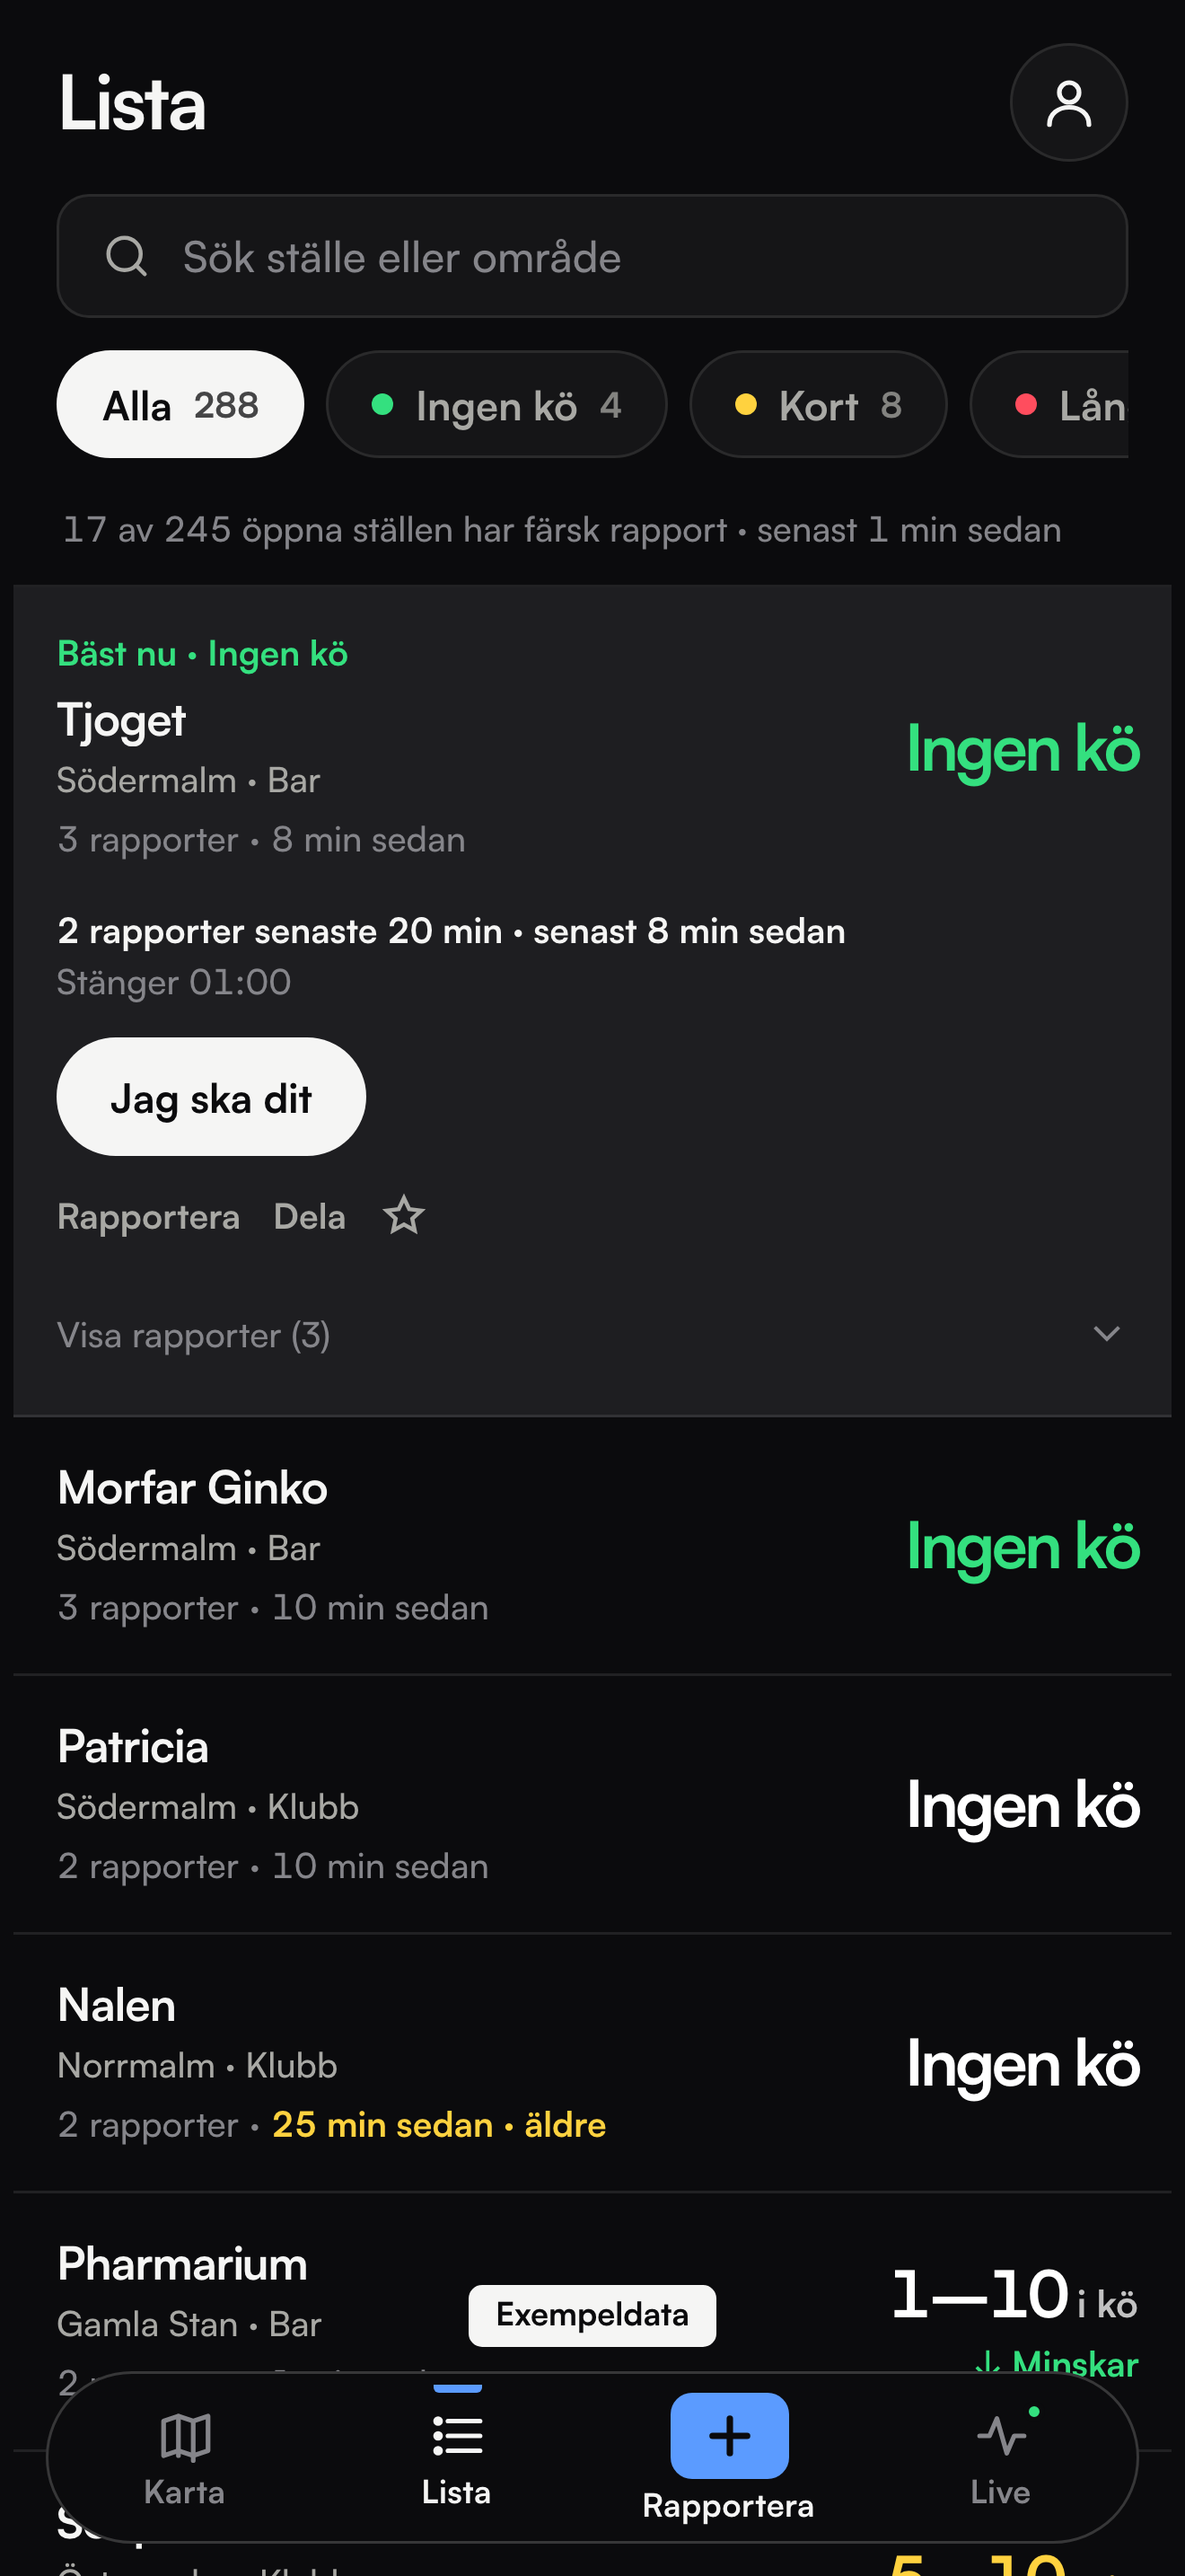
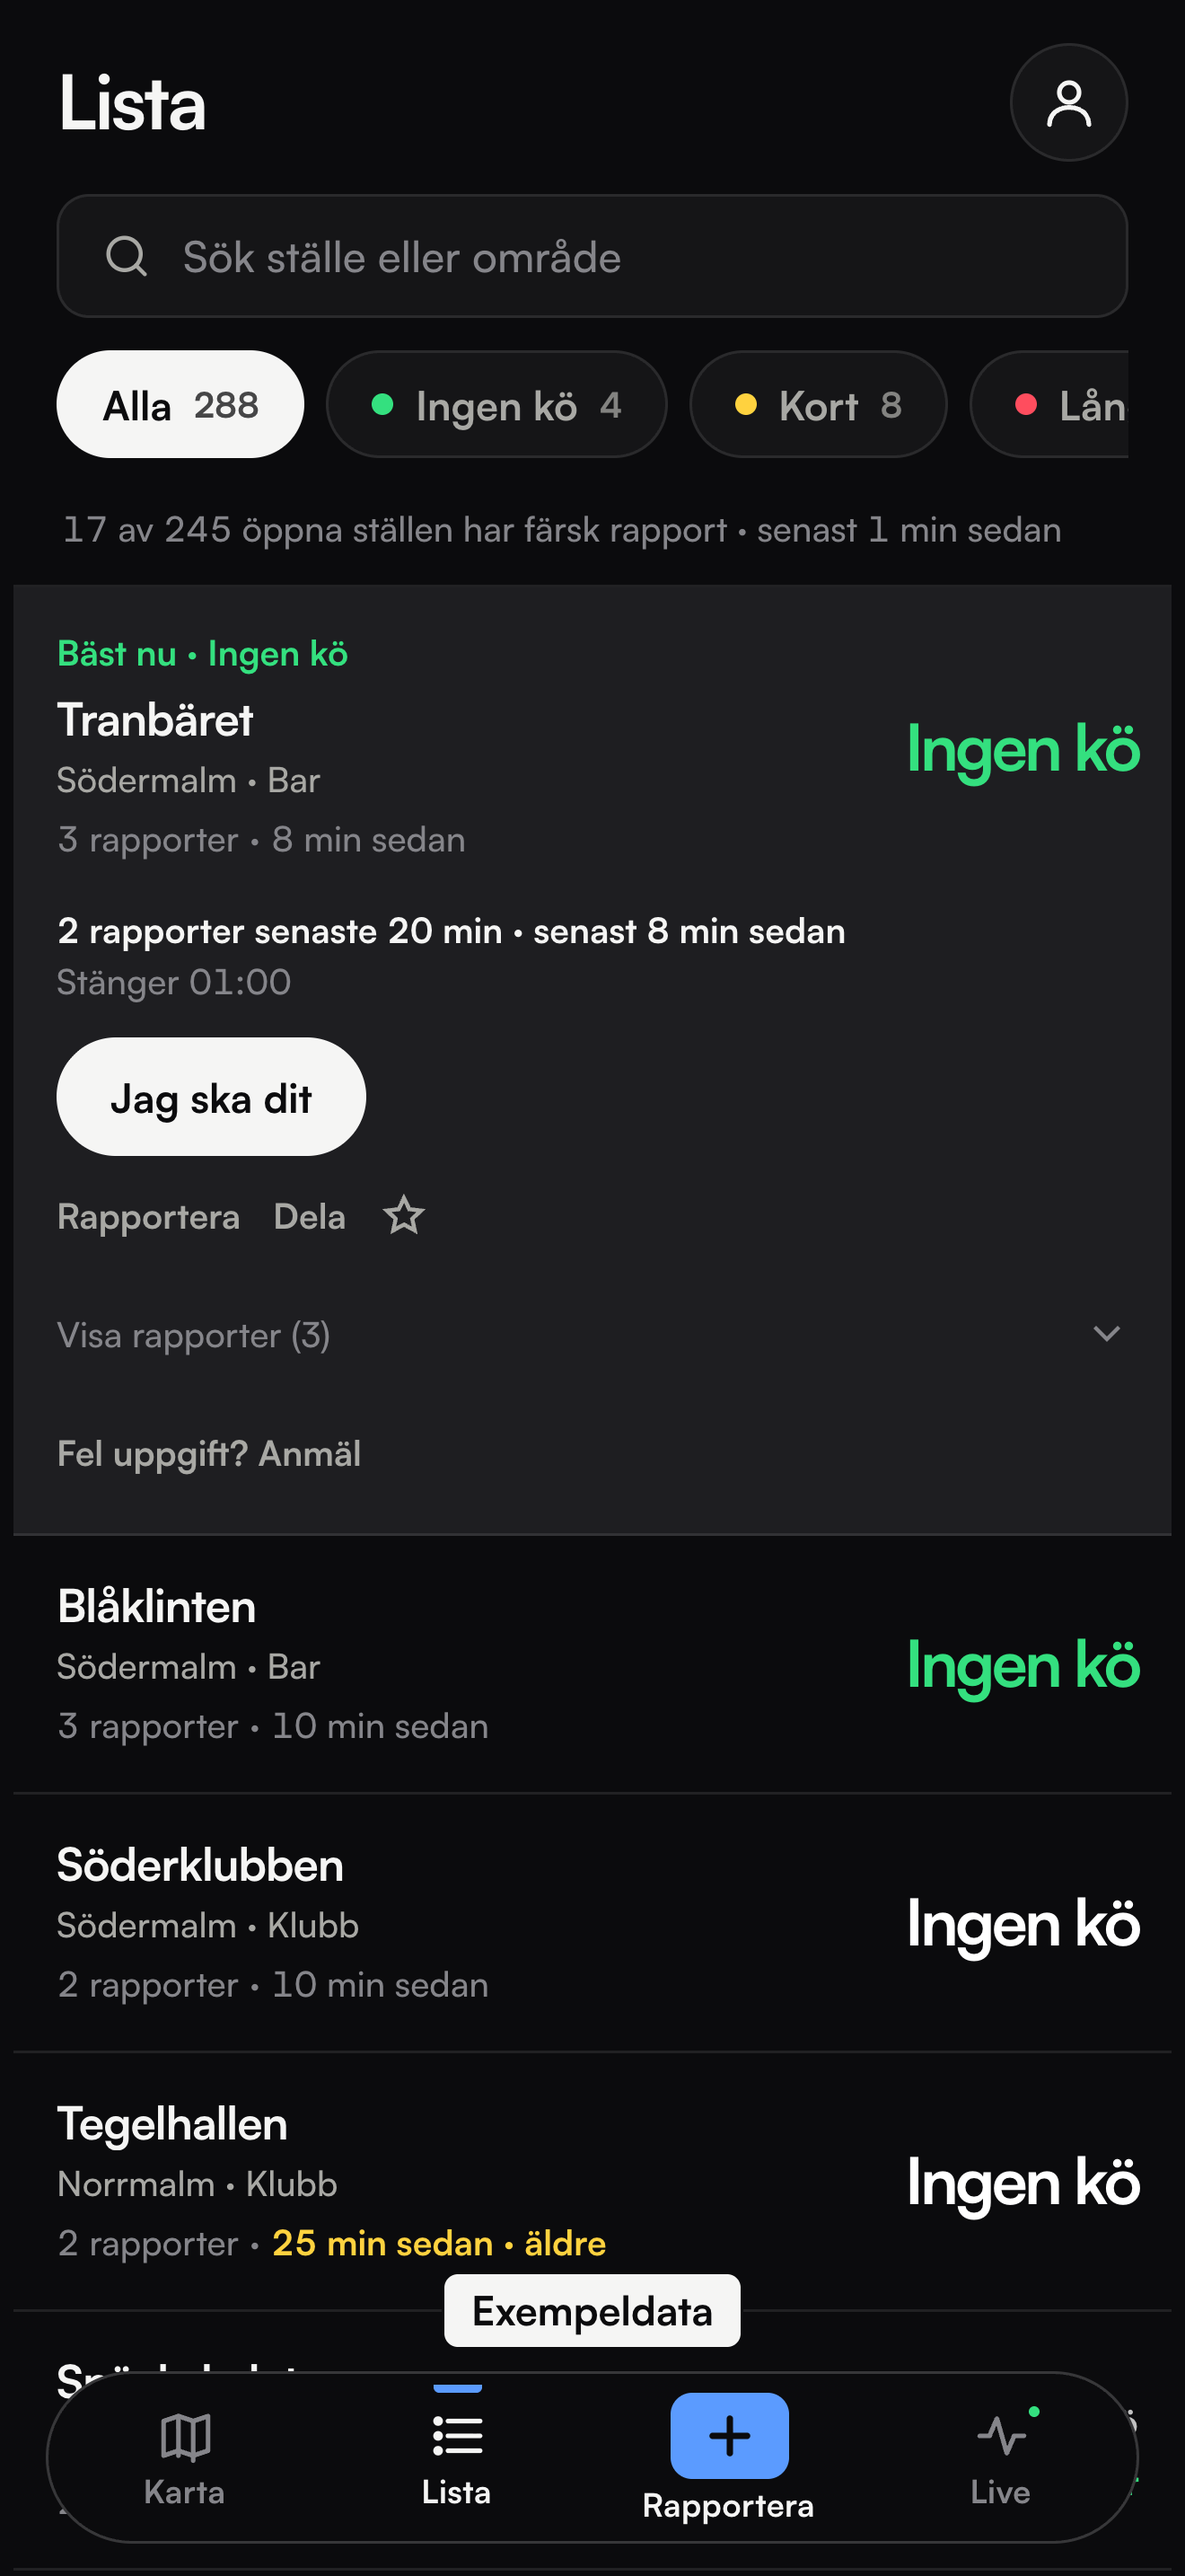
Inför App Store: skärmbilder med påhittade ställen, supportsida, typsnittet från egen domän, överföringar till USA i integritetspolicyn, synlig kartkreditering; arkivet körs

diff --git a/public/support.html b/public/support.html
@@ -1,0 +1,52 @@
+<!doctype html>
+<html lang="sv">
+<head>
+<meta charset="utf-8">
+<meta name="viewport" content="width=device-width, initial-scale=1, viewport-fit=cover">
+<meta name="theme-color" content="#0B0B0D">
+<title>Hjälp · Qbar</title>
+<style>
+  :root { color-scheme: dark; }
+  body { margin: 0; background: #0B0B0D; color: #F5F5F4; font: 16px/1.55 -apple-system, BlinkMacSystemFont, "Segoe UI", sans-serif; }
+  main { max-width: 640px; margin: 0 auto; padding: calc(24px + env(safe-area-inset-top)) 20px calc(48px + env(safe-area-inset-bottom)); }
+  h1 { font-size: 28px; line-height: 1.2; margin: 0 0 4px; }
+  h2 { font-size: 19px; margin: 32px 0 8px; }
+  p { color: #D6D6D2; }
+  .meta { color: #85858A; font-size: 14px; margin: 0 0 24px; }
+  a { color: #5B9BFF; }
+  .back { display: inline-block; margin-bottom: 24px; min-height: 44px; line-height: 44px; }
+</style>
+</head>
+<body>
+<main>
+  <a class="back" href="/">← Till Qbar</a>
+  <h1>Hjälp</h1>
+  <p class="meta">Frågor, fel eller förslag: <a href="mailto:qbar.info1@gmail.com">qbar.info1@gmail.com</a>. Vi svarar så snart vi kan.</p>
+
+  <h2>Var kommer köerna ifrån?</h2>
+  <p>Från andra besökare. Den som står i en kö väljer stället och hur många som står framför. Rapporter visas i 45 minuter
+  och alltid med hur gamla de är.</p>
+
+  <h2>Varför står det "10–25 i kö" och inte minuter?</h2>
+  <p>Minuter visas först när tre personer rapporterat samma kö. Innan dess ser du det som rapporterats. Väntetiden är en
+  uppskattning och kan vara fel; vakten bestämmer alltid.</p>
+
+  <h2>Varför ser jag inga köer?</h2>
+  <p>Utan färska rapporter visar Qbar ingen kö, i stället för att gissa. Flest rapporter finns på kvällar och nätter i
+  helgerna.</p>
+
+  <h2>Hur rapporterar jag?</h2>
+  <p>Tryck på Rapportera, välj stället och hur många som står framför dig. Inget konto behövs.</p>
+
+  <h2>Något är fel</h2>
+  <p>Tryck på "Fel uppgift? Anmäl" i ställets kort, eller skriv till
+  <a href="mailto:qbar.info1@gmail.com">qbar.info1@gmail.com</a>. Falska rapporter tas bort.</p>
+
+  <h2>Radera min data</h2>
+  <p>Profil → Radera min data tar bort allt du skickat. Mer i <a href="/integritet.html">integritet och villkor</a>.</p>
+
+  <h2>För krogar och klubbar</h2>
+  <p>Skriv till <a href="mailto:qbar.info1@gmail.com?subject=Krog">qbar.info1@gmail.com</a>.</p>
+</main>
+</body>
+</html>

diff --git a/public/integritet.html b/public/integritet.html
@@ -23,7 +23,7 @@
 <main>
   <a class="back" href="/">← Till Qbar</a>
   <h1>Integritet och villkor</h1>
-  <p class="meta">Gäller från 23 november 2026. Frågor: <a href="mailto:qbar.info1@gmail.com">qbar.info1@gmail.com</a></p>
+  <p class="meta">Gäller från 24 november 2026. Frågor: <a href="mailto:qbar.info1@gmail.com">qbar.info1@gmail.com</a></p>
 
   <h2>Vem som ansvarar</h2>
   <p>Personuppgiftsansvarig för Qbar är Fais Useng, Bandhagen (privatperson). Kontakt:
@@ -93,10 +93,14 @@
     <li><b>Mapbox</b> (kartan): ser din IP-adress och vilket kartområde som hämtas, och får veta när kartan laddas
       (events.mapbox.com), med ett slumpat id som Mapbox sparar i appen och använder för att räkna kartladdningar.
       Id:t är inte kopplat till dina rapporter.</li>
-    <li><b>Fontshare</b> (typsnitt): ser din IP-adress.</li>
     <li><b>Google Maps</b>, bara när du trycker på Vägbeskrivning eller Jag ska dit: får ställets namn och adress som mål.</li>
     <li><b>Apple eller Google</b>, bara med notiser på: levererar notisen till telefonen.</li>
   </ul>
+  <p>Databasen ligger i Stockholm. Vercel och Mapbox är amerikanska företag, så din IP-adress (och Mapbox slumpade id)
+  kan behandlas i USA. Båda är anslutna till EU–US Data Privacy Framework, som EU-kommissionen har beslutat ger en adekvat
+  skyddsnivå (<a href="https://www.dataprivacyframework.gov/participant/6847">Vercel</a>,
+  <a href="https://www.dataprivacyframework.gov/participant/5640">Mapbox</a>). Typsnittet ligger hos oss, inte hos en
+  tredje part.</p>
 
   <h2>Dina rättigheter</h2>
   <p>Radera min data under Profil tar bort dina rapporter, notiser och "på väg" från servern och allt Qbar sparat på

diff --git a/src/main.js b/src/main.js
@@ -1771,9 +1771,9 @@ import './style.css';
           pitchWithRotate: false,
           dragRotate: false,
           logoPosition: 'bottom-right',
-          // © Mapbox © OpenStreetMap krävs av Mapbox villkor och OSM:s licens: kontrollen läggs till nedan, kompakt. Den
-          // inbyggda stängs av, annars stod krediteringen två gånger.
-          attributionControl: false,
+          // Den inbyggda attributionControl (© Mapbox © OpenStreetMap, krävs av Mapbox villkor och OSM:s licens) står kvar:
+          // under 640 px bred karta är den kompakt, ett (i), och ligger under loggan, synlig under "Bäst nu". En egen
+          // kontroll till hamnade ovanför loggan, bakom kortet, och krediteringen stod två gånger.
           // Mapbox prestandamätningar (gljs.performance) skickas inte; kartladdningarna räknas ändå (fakturering).
           performanceMetricsCollection: false,
         });
@@ -1932,8 +1932,6 @@ import './style.css';
           if (map.hasImage(name)) map.removeImage(name);
           map.addImage(name, { width: canvas.width, height: canvas.height, data: imageData.data }, { pixelRatio: PR });
         }
-
-        map.addControl(new mapboxgl.AttributionControl({ compact: true }), 'bottom-right');
 
         var _mapStarted = false; // sätts först i load; därefter är inget Mapbox-fel skäl att stänga av kartan
         map.on('load', function() {

diff --git a/index.html b/index.html
@@ -20,8 +20,7 @@
   <link rel="canonical" href="https://qbar-app.vercel.app/">
   <!-- Introt spelas en gång per session; körs före första målningen så att det aldrig blinkar till. -->
   <script>try { sessionStorage.getItem('qb_splash') ? document.documentElement.classList.add('no-splash') : sessionStorage.setItem('qb_splash', '1'); } catch (e) {}</script>
-  <link rel="preconnect" href="https://api.fontshare.com">
-  <link href="https://api.fontshare.com/v2/css?f[]=satoshi@700,600,500,400&display=swap" rel="stylesheet">
+  <link rel="stylesheet" href="/satoshi.css">
   <script type="module" src="/src/main.js"></script>
 </head>
 <body>

diff --git a/public/satoshi.css b/public/satoshi.css
@@ -1,0 +1,4 @@
+/* Satoshi från vår egen domän; filerna hämtas av scripts/fonts.mjs. */
+@font-face { font-family: 'Satoshi'; src: url('/fonts/satoshi-400.woff2') format('woff2'); font-weight: 400; font-style: normal; font-display: swap; }
+@font-face { font-family: 'Satoshi'; src: url('/fonts/satoshi-500.woff2') format('woff2'); font-weight: 500; font-style: normal; font-display: swap; }
+@font-face { font-family: 'Satoshi'; src: url('/fonts/satoshi-700.woff2') format('woff2'); font-weight: 700; font-style: normal; font-display: swap; }

diff --git a/krog.html b/krog.html
@@ -7,8 +7,7 @@
   <meta name="robots" content="noindex">
   <link rel="icon" type="image/svg+xml" href="/favicon.svg">
   <title>Qbar för krogar</title>
-  <link rel="preconnect" href="https://api.fontshare.com">
-  <link href="https://api.fontshare.com/v2/css?f[]=satoshi@700,600,500,400&display=swap" rel="stylesheet">
+  <link rel="stylesheet" href="/satoshi.css">
   <script type="module" src="/src/krog.js"></script>
 </head>
 <body>

diff --git a/supabase/README.md b/supabase/README.md
@@ -24,9 +24,9 @@ Nycklarna ligger i `~/Desktop/qbar-push-nycklar.txt` på datorn där de skapades
 | Qbar för krogar: `venue_accounts`, `venue_notes`, `save_venue_note`, `venue_stats` och modellen i SQL (`qbar_*`) | `migrations/20261118000000_krog.sql` | samma, körd 2026-11-18 |
 | Ett inloggat ställe (`authenticated`) läser eller skriver aldrig `reports` direkt, bara via `venue_stats()` | `migrations/20261118010000_krog_no_direct_reports.sql` | samma, körd 2026-11-18 |
 | Auth: Site URL och Redirect URLs `https://anchor-queuebar.vercel.app/krog.html`, `http://localhost:5173/krog.html`; registrering avstängd (`disable_signup`) | Management API (`PATCH /v1/projects/…/config/auth`) | satt 2026-11-18 |
-| Arkiv: `reports_archive` (utan `user_id`/`reporter`, bara service role). `qbar-gallring` kopierar rapporter till arkivet innan de raderas efter 90 dagar | `migrations/20261120000000_reports_archive.sql` | `db query --remote=awwmfsjsrjktekmbgadx --yes -f`, **inte körd än** |
+| Arkiv: `reports_archive` (utan `user_id`/`reporter`, bara service role). `qbar-gallring` kopierar rapporter till arkivet innan de raderas efter 90 dagar | `migrations/20261120000000_reports_archive.sql` | `db query --remote=awwmfsjsrjktekmbgadx --yes -f`, körd 2026-11-24 (första raderna arkiveras 2026-12-22) |
 | Spärrarna: IP med `x-forwarded-for` som reserv och `ip_required` (`qbar_ip_limit`); `venues` (okänt ställe nekas, `venue_name` därifrån); `reports.net` och "3 överens" per nät, högst 2 kömätningar per nät och ställe på 45 min; `session_taken`; "På väg" och notiser med IP-spärr; högst 50 ställen per prenumeration | `migrations/20261122000000_report_hardening.sql`, sedan `venues.sql` | `db query --remote=awwmfsjsrjktekmbgadx --yes -f`, körd 2026-11-23 (289 rader i `venues`) |
-| Anon läser bara aktiva rapporter (`expires_at > now()`); 8 veckors historik via `report_history()` utan `reporter`/`net`, profilens historik via `my_reports(user_id)`; en kömätning utan antal nekas (`ahead_required`), "Ingen kö" måste vara 0 framför (`status_mismatch`) | `migrations/20261124000000_reports_active_only.sql` | `db query --remote=awwmfsjsrjktekmbgadx --yes -f`, **inte körd än**. Kör den före klienten som anropar RPC:erna (den gamla klienten fungerar efteråt, bara utan historik) |
+| Anon läser bara aktiva rapporter (`expires_at > now()`); 8 veckors historik via `report_history()` utan `reporter`/`net`, profilens historik via `my_reports(user_id)`; en kömätning utan antal nekas (`ahead_required`), "Ingen kö" måste vara 0 framför (`status_mismatch`) | `migrations/20261124000000_reports_active_only.sql` | samma, körd 2026-11-24 före klienten som anropar RPC:erna |
 
 `VAPID_PUBLIC_KEY` måste vara samma som `PUSH_PUBLIC_KEY` i `src/main.js`. Byts nycklarna slutar alla befintliga
 prenumerationer att fungera. Byts `WEBHOOK_SECRET` måste `webhook.sql` köras om med det nya värdet.

diff --git a/docs/ARCHITECTURE.md b/docs/ARCHITECTURE.md
@@ -31,7 +31,7 @@ Den svåraste delen är nummer 2. Se [QUEUE_LOGIC.md](QUEUE_LOGIC.md).
 | Styling | Ren CSS med custom properties | `src/style.css` |
 | Karta | `mapbox-gl` 3.x via npm, Mapbox Standard som import `basemap`; karttyp natt, ljus eller satellit (`MAP_STYLES`) | `src/main.js` |
 | Databas / API | Supabase (PostgREST + Realtime) via `@supabase/supabase-js` 2.x | `src/main.js` |
-| Typsnitt | **Satoshi** (Fontshare CDN) för text, **Geist Mono** (Google Fonts) för siffror | `index.html:14–15` |
+| Typsnitt | **Satoshi** för text och siffror (`--font-mono` är samma), från egen domän | `public/satoshi.css`, `scripts/fonts.mjs` |
 | Hosting | Vercel, SPA-rewrite, `Cache-Control: no-store` | `vercel.json` |
 | Utvecklingsverktyg | `@frontman-ai/vite` (endast dev) | `vite.config.js` |
 | Enhetstester | **Vitest** 5.x, 143 tester | `vitest.config.js`, `tests/` |
@@ -224,8 +224,7 @@ koden som kan enhetstestas utan en webbläsare. De är också de som betyder mes
 | Supabase RPC `on_my_way_counts` | "På väg"-räknare | Varning i konsolen, räknaren visas inte |
 | ~~Supabase RPC `increment_points`~~ | Anropen borttagna — funktionen fanns inte. Poäng räknas klientsidan | — |
 | Mapbox Styles/Tiles | Kartan | `showMapError()` visar ett felläge. **Verifierat fungerande.** |
-| Fontshare (Satoshi) | Hela typografin | Fallback `system-ui`. Hela utseendet byter karaktär |
-| Google Fonts (Geist Mono) | Alla siffror | Fallback `monospace` |
+| Fontshare (Satoshi), bara vid bygget | `scripts/fonts.mjs` hämtar filerna | Bygget stoppar med ett fel; användarna når aldrig Fontshare |
 
 ### Verkliga flaskhalsar
 

diff --git a/store/APP_STORE.md b/store/APP_STORE.md
@@ -52,7 +52,7 @@ Qbar är för dig som fyllt 18 år.
 **Nyckelord** (högst 100, inga mellanslag):
 `kö,krog,bar,nattklubb,klubb,utgång,nattliv,uteliv,stureplan,södermalm,väntetid,insläpp,fest,pub`
 
-**Support-URL:** `https://qbar-app.vercel.app/integritet.html` (har kontaktadressen qbar.info1@gmail.com)
+**Support-URL:** `https://qbar-app.vercel.app/support.html` (vanliga frågor och kontaktadressen qbar.info1@gmail.com)
 
 **Marknadsförings-URL:** `https://qbar-app.vercel.app`
 
@@ -65,9 +65,9 @@ Qbar är för dig som fyllt 18 år.
 ## Skärmbilder
 
 `store/screenshots/` innehåller fem bilder i 1320×2868 (6,9 tum, det format App Store kräver; mindre storlekar skalas
-från dem): karta, lista, utfällt ställe, Live, Rapportera. Tagna ur appen med dess testdata (`?testdata=true`, kl. 23),
-med testlägets etikett omskriven till "Exempeldata": köerna är påhittade men ställena riktiga, och det ska synas på
-varje bild (Playwright mot `vite`, 440×956 punkter, skala 3). Ta om dem när utseendet ändras.
+från dem): karta, lista, utfällt ställe, Live, Rapportera. `npm run build && node scripts/screenshots.mjs` tar dem ur
+appens testdata (fredag 23:00, utan servern), med testdatans 17 ställen omdöpta till påhittade namn (en butiksbild får
+inte visa påhittade köer på riktiga krogar) och etiketten "Exempeldata" på varje bild. Ta om dem när utseendet ändras.
 
 ## Åldersgräns
 

diff --git a/CLAUDE.md b/CLAUDE.md
@@ -37,7 +37,7 @@ adress). Använd **aldrig** en Vercel-URL med slumpkod i mitten — de är fryst
 | Kod | `src/main.js` (4 586 rader), `src/style.css` (1 192 rader), `index.html` (321 rader) |
 | Karta | `mapbox-gl` 3.x **via npm**, Mapbox Standard (3D) med karttyp Natt, Ljus eller Satellit, centrum `[18.0686, 59.3293]` |
 | Data | Supabase (PostgREST + Realtime) via `@supabase/supabase-js` 2.x |
-| Typsnitt | **Satoshi** (Fontshare) för text, **Geist Mono** för siffror |
+| Typsnitt | **Satoshi** för text och siffror, från egen domän (`public/satoshi.css`; filerna hämtas av `scripts/fonts.mjs` före dev och bygge, checkas inte in: licensen förbjuder spridning) |
 | Hosting | Vercel |
 | Utvecklingsverktyg | `@frontman-ai/vite` (endast dev) |
 
